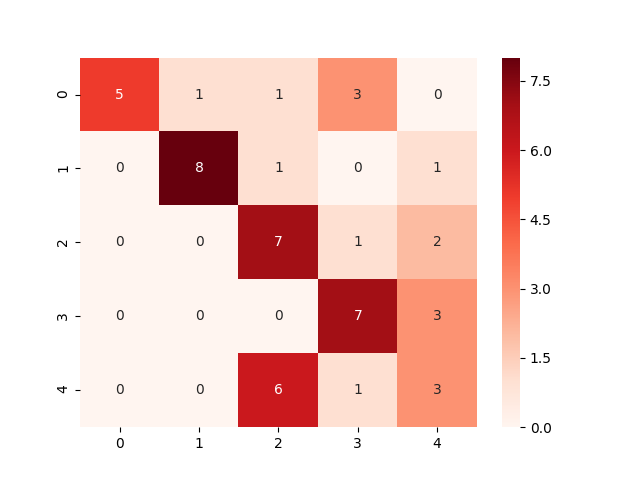
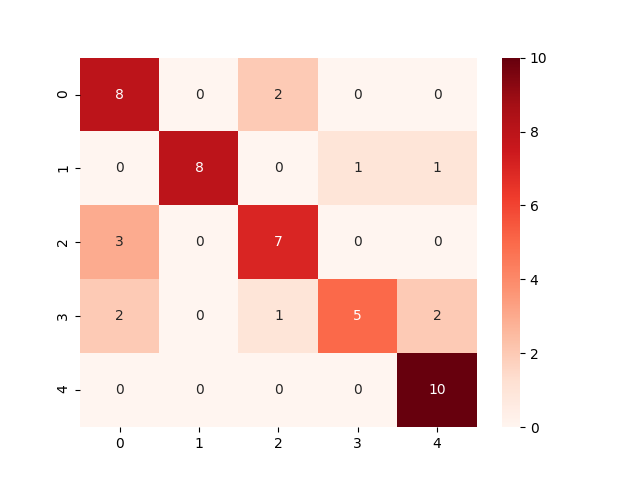
testData_0120_p00 〜 p03を学習データとしてtestData_0120_p04を識別させると認識精度は76%までいった． 学習データの収集も数フレームの中央値をとるとよいかもしれない

diff --git a/RFID_Python/unionclassifier_KNN.py b/RFID_Python/unionclassifier_KNN.py
@@ -11,15 +11,21 @@ from sklearn.neighbors import KNeighborsClassifier
 from Logput import Logput
 
 Version = "0120"
-dataset = np.loadtxt("./collectData/data_" + Version + "_p00.csv", delimiter=',', dtype='int64')
-dataset = np.append(dataset, np.loadtxt("./collectData/data_" + Version + "_p01.csv", delimiter=',', dtype='int64'), axis=0)
-dataset = np.append(dataset, np.loadtxt("./collectData/data_" + Version + "_p02.csv", delimiter=',', dtype='int64'), axis=0)
-dataset = np.append(dataset, np.loadtxt("./collectData/data_" + Version + "_p03.csv", delimiter=',', dtype='int64'), axis=0)
+# dataset = np.loadtxt("./collectData/data_" + Version + "_p00.csv", delimiter=',', dtype='int64')
+# dataset = np.append(dataset, np.loadtxt("./collectData/data_" + Version + "_p01.csv", delimiter=',', dtype='int64'), axis=0)
+# dataset = np.append(dataset, np.loadtxt("./collectData/data_" + Version + "_p02.csv", delimiter=',', dtype='int64'), axis=0)
+# dataset = np.append(dataset, np.loadtxt("./collectData/data_" + Version + "_p03.csv", delimiter=',', dtype='int64'), axis=0)
+
+dataset = np.loadtxt("./testData/testData_" + Version + "_p00.csv", delimiter=',', dtype='int64')
+# dataset = np.append(dataset, np.loadtxt("./testData/testData_" + Version + "_p00.csv", delimiter=',', dtype='int64'), axis=0)
+dataset = np.append(dataset, np.loadtxt("./testData/testData_" + Version + "_p01.csv", delimiter=',', dtype='int64'), axis=0)
+dataset = np.append(dataset, np.loadtxt("./testData/testData_" + Version + "_p02.csv", delimiter=',', dtype='int64'), axis=0)
+dataset = np.append(dataset, np.loadtxt("./testData/testData_" + Version + "_p03.csv", delimiter=',', dtype='int64'), axis=0)
 
 # modellog = Logput("KNN")
 # modellog.logput("Made KNN model\n")
 # modellog.logput("Traindata: data_" + Version + ".csv, number of data:  {}".format(dataset.shape[0]) + "\n")
-sss = StratifiedShuffleSplit(test_size=0.4)
+sss = StratifiedShuffleSplit(test_size=0.2)
 
 data, label = np.hsplit(dataset, [6])
 

diff --git a/RFID_Python/datapredict.py b/RFID_Python/datapredict.py
@@ -10,7 +10,7 @@ import matplotlib.pyplot as plt
 
 from Logput import Logput
 
-data_version = "0120_p03"  # テストデータのバージョン
+data_version = "0120_p04"  # テストデータのバージョン
 model_version = "0120"  # モデルのバージョン
 modelType = "KNN"   # モデルの種類　[ SVC, KNN, RF ]
 
